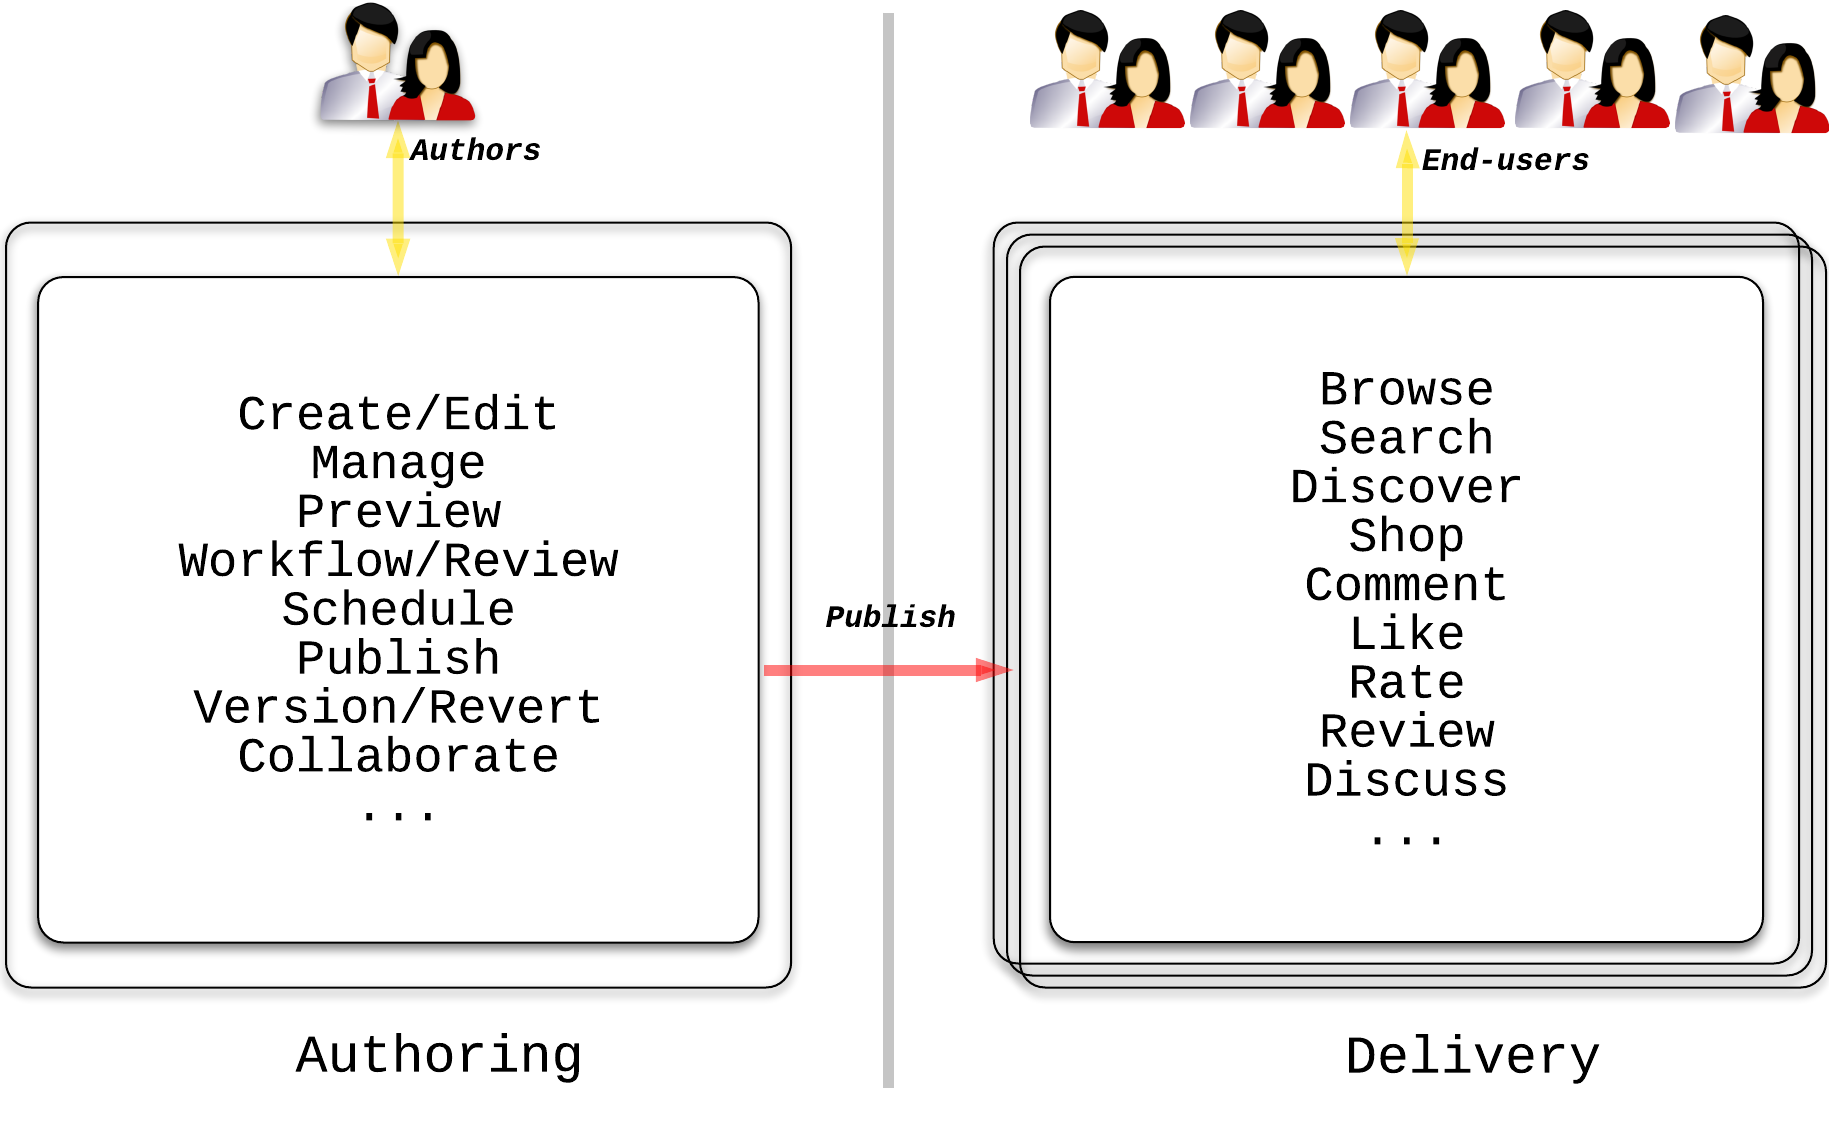
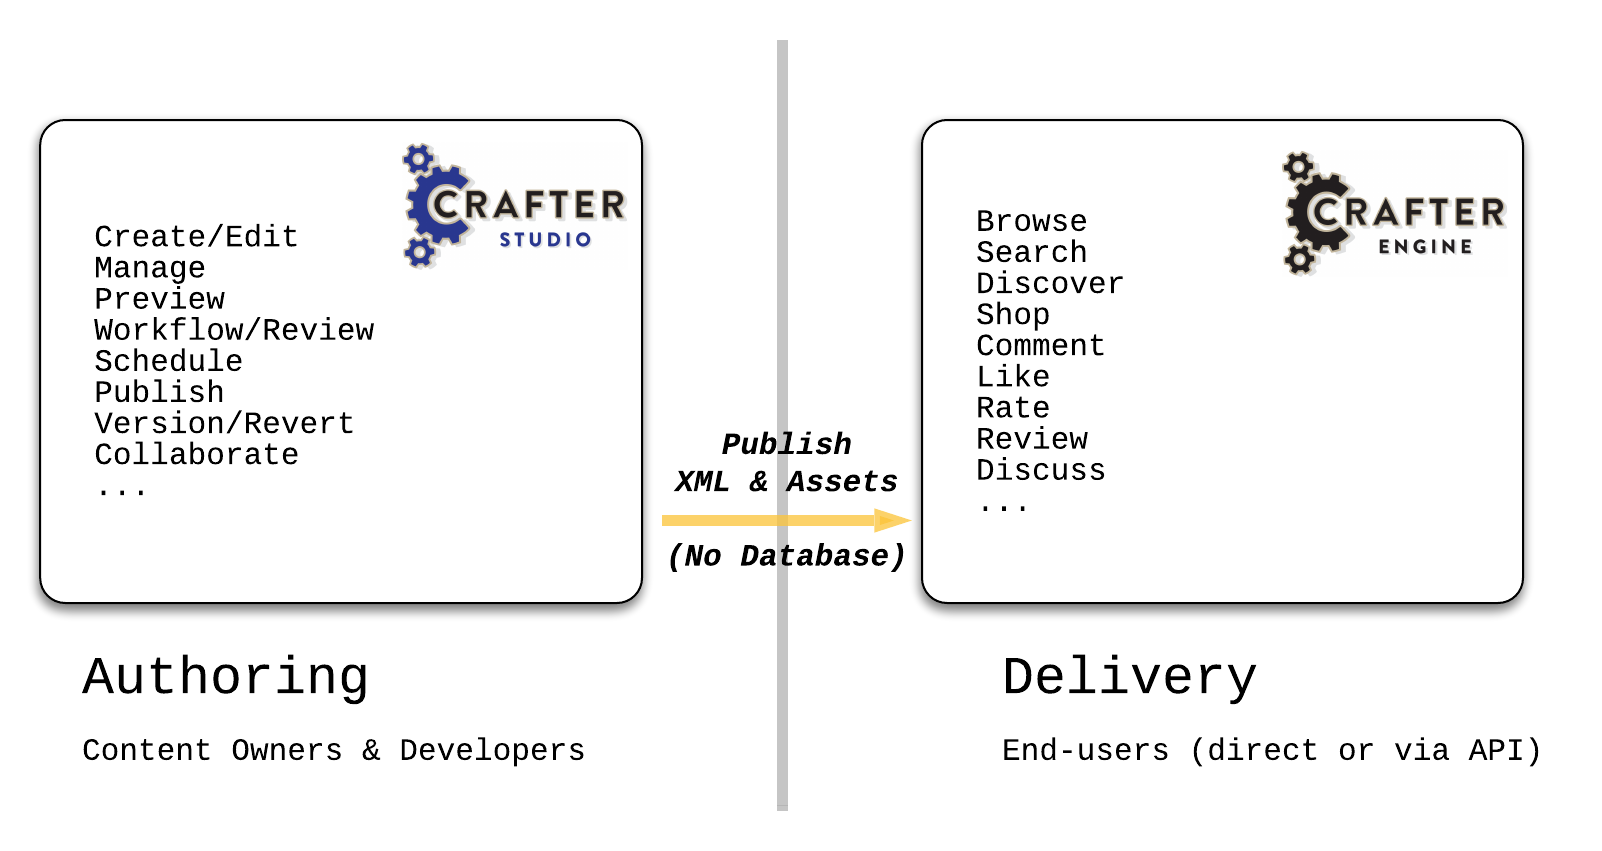
Updated the architecture document to reflect Crafter CMS v3.1.0

Changed region(s): [[0.0, 0.0, 1.0, 0.9777], [0.7179, 0.9166, 0.8739, 0.9777]]

diff --git a/source/developers/architecture.rst b/source/developers/architecture.rst
@@ -10,54 +10,89 @@ Crafter CMS distinguishes itself by its modern architecture, in turn this enable
 
 * Truly Decoupled CMS (disconnected global delivery),  composed of independent microservice-based components
 * Dynamic / personalized delivery of every request at speed
-* API first CMS (content as a service)
+* API first CMS (content as a service via GraphQL & REST)
 * Git-based CMS (allows for excellent developer cadence)
-* Share-nothing delivery architecture (extreme scale)
+* Share-nothing, serverless, delivery architecture (planet-scale)
 * Front-end agnostic (bring your favorite UI framework or use as a headless CMS)
 * Equal support for all three CMS stakeholders: content authors, developers and system administrators
+* Build new apps or weave into existing apps and sites
 
-Crafter CMS is a true decoupled content management system, yet it supports dynamic and personalized content
-delivery. To understand this better, typical decoupled content management systems have the following general
-architecture:
+Modern Decoupled Architecture
+=============================
+
+Crafter CMS is a truly decoupled content management system, yet it supports dynamic and personalized content
+delivery. To understand this better, Crafter's decoupled architecture is as follows:
 
 .. image:: /_static/images/architecture/decoupled-overview.png
         :width: 100%
         :alt: Crafter CMS Decoupled Overview
         :align: center
 
-Most decoupled content management systems compile the content into the final artifacts and push that to the delivery tier. While this allows for disconnected delivery, and extreme scalability (just add servers on the delivery tier that deliver the content, or use a CDN), this approach doesn't allow for dynamic/personalized delivery of content.
+You'll note that Crafter doesn't share a database between the authoring and delivery systems. Instead, the authoring system reduces the content to XML and static assets, and the delivery system rehydrates those for personalized, planet-scale, disconnected, and fast delivery.
 
-Many actually coupled CMSs do claim to be decoupled. These systems allow you to have an authoring tier that's separate from the delivery tier, however, these are indeed connected via a database sync. That means that the delivery tiers cannot run without some level of connectivity to the authoring master, and indeed has limits on scale of the delivery tier.
+In contrast, many coupled CMSs do claim to be decoupled. These systems allow you to have an authoring tier that's separate from the delivery tier, however, these are connected via a database sync. That means that the delivery tiers cannot run without some level of connectivity to the authoring master, and indeed has limits on scale of the delivery tier.
 
 A truly decoupled system will support disconnected delivery (think of a delivery tier that's running in a submarine or on a cruise ship). While running disconnected delivery nodes is an extreme example, it's a good test of the true scalability of the delivery tier of a CMS.
 
-Crafter CMS is truly decoupled and only assets are published from the authoring tier to the publishing tier. These assets comprise XML files and static assets (like images, CSS, Groovy code, etc.). The delivery tier ingests these artifacts and can then deliver the desired experience.
-
-How can Crafter CMS deliver a dynamic experience? During ingestion, the delivery tier indexes the content into a local search engine and builds in-memory representation of content items to help drive the dynamic behavior. The search engine and in-memory store are local and therefore share nothing with other nodes, however, you're now able to search and build dynamic responses.
-
-What about personalization and targeting? Crafter CMS has two subsystems that are backed by a NoSQL database to help with personalization and UGC (User Generated Content): Crafter Profile and Crafter Social. These collected information about the user (logged in or not), and can drive dynamic behavior, and allow the user to engage with the site (comments, ratings, etc.).
-
-Hang on, you said disconnected delivery!? Crafter Profile and Crafter Social do indeed need a database, but: 1) the CMS doesn't mandate these, you can deliver content without these capabilities, 2) the choice NoSQL helps with geo-distribution, high-scale, and some disconnection for eventual consistency.
-
-Below is a diagram showing Crafter CMS including all microservices for authoring and delivery:
-
-.. image:: /_static/images/architecture/detailed.png
+.. image:: /_static/images/architecture/traditional-modern-decoupled.png
         :width: 100%
-        :alt: Crafter CMS Architecture
+        :alt: Crafter CMS Decoupled Overview
         :align: center
 
-You'll quickly note that the authoring tier has very different SLAs, scalability, and geo-location requirements when compared to the delivery tier. It's very likely that you'll only need the authoring environment present in one data-center (per set of sites), and will have a bounded set of users and less stringent SLA. Whereas for delivery, you'll likely to need the delivery tier to be geographically distributed for faster personalized response time to end-users, unbounded users and very high SLAs.
+How can Crafter CMS deliver a dynamic experience? During ingestion, the delivery tier indexes the content into a local search engine and builds in-memory representation of content items to help drive the dynamic behavior. The search engine and in-memory store are local and therefore share nothing with other nodes, however, you're now able to search and build dynamic responses. These dynanmic responses can be driven by defined user personas along with user identity or prior user behavior. If you have a user store, behavior stream, or social media profile access, you can then tailor the content dynamically in real time. Crafter CMS has two *optional* modules that support this and can be combined/layered with other systems; Crafter Profile (user identity and behavior store), and Crafter Social (User-generated-content store).
 
-A typical deployment of Crafter CMS on Amazon AWS will have 1 region for authoring, and 3 regions for delivery that will result in sub-one-second HTML response time to end-users globally.
+Application Development
+=======================
 
-Here is a typical AWS deployment at a high-level:
+.. image:: /_static/images/architecture/application-development.png
+	:width: 100%
+	:alt: Application Development on Crafter CMS
+	:align: center
 
-.. image:: /_static/images/architecture/typical-deployment.png
+Crafter CMS is a very flexible platform, and features:
+
+* Content access via API (GraphQL / REST)
+* Modern SPAs (Single Page Applications) support, like React, Angular, Vue
+
+   * Support for in-context editing via content edit pencils, drag and drop component management, etc.
+
+* Server-side business logic developed in
+
+   * Groovy/Java if backed by Crafter Engine
+   * Any language if backed by an external service
+
+* Simple HTML5 sites
+* Mobile applications and other headless use-cases
+
+Deployment Architecture
+=======================
+
+Serverless Deployment
+^^^^^^^^^^^^^^^^^^^^^
+
+Starting with Crafter CMS 3.1, serverless delivery is supported via Docker, Kubernetes, and S3 or S3-compatible storage tier. This allows for very fast scaling up/down and a true planet-scale deployment.
+
+.. image:: /_static/images/architecture/serverless-deployment-architecture.png
         :width: 100%
         :alt: Crafter CMS Typical Real-life AWS Deployment
         :align: center
 
-The authoring cluster is typically deployed closest to the content authors, whereas delivery clusters are spread across geographies where you have end-users. If content authors are also globally distributed, authoring clusters are deployed near the authors to speed up their experience as well. Delivery nodes can pull content from an arbitrary number of authoring nodes.
+Traditional Deployment
+^^^^^^^^^^^^^^^^^^^^^^
+
+If you're not quite ready for serverless deployment, Crafter CMS deploys quite nicely in a traditional server/scale-group architecture. Here is a typical deployment at a high-level:
+
+.. image:: /_static/images/architecture/typical-deployment.png
+        :width: 100%
+        :alt: Crafter CMS Typical Real-life Deployment
+        :align: center
+
+Planet-scale
+============
+
+To support content authors and end-users across the globe, it's best to deploy Crafter CMS services close to the users. This guarantees fast, yet dynamic, responses to the users (CDNs are great, but they won't help you with dynamic/personalized responses).
+
+The authoring clusters are typically deployed closest to the content authors, whereas delivery clusters are spread across geographies where you have end-users. Delivery nodes can pull content from an arbitrary number of authoring nodes, and are typically deployed in geographies where your end-users are.
 
 .. image:: /_static/images/architecture/global-delivery.png
         :width: 100%
@@ -65,11 +100,101 @@ The authoring cluster is typically deployed closest to the content authors, wher
         :align: center
 
 
+Equality Between Stakeholders
+=============================
+Crafter CMS tries to be fair to the three primary stakeholders:
+
+* Developers
+* Operations
+* Authors
+
+It's quite hard to provide a good experience to all three stakeholders, and the CMS architecture plays a crucial role in creating the necessary balance. Consider:
+
+.. image:: /_static/images/architecture/stakeholder-fairness.png
+        :width: 100%
+        :alt: Crafter CMS Typical Real-life AWS Deployment
+        :align: center
+
+Traditional CMSs cater to content authors and web editors, and do so very well. However, developers are then forced to develop in outdated or proprietary frameworks using difficult workflows. Additionally, operations has a hard time supporting these workflows, especially when it comes to code deployments or moving production content back to lower environments.
+
+More modern headless CMSs do a much better job supporting developer's choice of development framework. Operations can be simpler with SaaS-based headless CMSs, but that means up-time is now in the hands of a third part, same for global distribution. If the headless CMS is on-premises, then potentially similar workflow problems may exist. Authors are simply underserved here as they can't manage the content in-context and are left to edit headless forms without the ability to drag-and-drop, or see the content they're editing change the site/application in real time.
+
+Crafter CMS, on the other hand, provides:
+
+* Content authors with in-context editing tools and full CMS workflow.
+* Developers get to choose their framework, and get to use their own tools.
+* Operations get to deploy the system in a modern and scalable manner (Kubernetes), and workflow is much easier thanks to being databaseless and Git-based
+
+   * Code flows forward from lower environments to production, and content flows back from production to lower environments
+
+Git-based CMS
+=============
+
+Crafter CMS is Git-based. That means that Crafter applications/sites are actually stored in Git repositories from the outset (except for large binaries that go to bucket storage), and that enables some very effective workflows. Consider:
+
+* Developers work against the Git repo that holds the site/app directly using their IDEs and tools
+* Authors work against the same Git repo using a GUI (Crafter Studio), without being aware of Git
+* Operations maintains well-known and proven foundational persistence tier, Git, and use that to flow content and code forward and back
+
+.. image:: /_static/images/architecture/git-data-flow.png
+        :width: 100%
+        :alt: Crafter CMS Typical Real-life AWS Deployment
+        :align: center
+
+
+Enterprise Content Platform
+===========================
+
+Crafter CMS can be further leveraged as an enterprise-wide content as a service provider. Thanks to being a multi-tenant CMS, any number of authors can manage content for any number of sites/applications, and Crafter can either deliver the applications, or simply provide content snippets to existing applications.
+
+.. image:: /_static/images/architecture/enterprise-content-platform.png
+        :width: 100%
+        :alt: Crafter CMS Typical Real-life AWS Deployment
+        :align: center
+
+
+Content Enable Existing Applications
+^^^^^^^^^^^^^^^^^^^^^^^^^^^^^^^^^^^^
+
+It's also not an all or nothing. Existing applications/sites can leverage Crafter to retrieve content as:
+
+* JSON
+* XML
+* HTML snippets
+* iFrame tiles
+
+The application/site can then be delivered using whatever technology, and simply use Crafter to deliver specific content tiles and assets.
+
+.. image:: /_static/images/architecture/partial-delivery.png
+        :width: 100%
+        :alt: Crafter CMS Typical Real-life AWS Deployment
+        :align: center
+
+Crafter CMS Services
+====================
+
+Crafter CMS comprises a number of services that work together to deliver the solution. At a high level:
+
++------------------+-----------------------------------------------------------------+
+|| Subsystem       || High-level Description                                         |
++------------------+-----------------------------------------------------------------+
+| Crafter Studio   | Provides the UI and workflow for content authors.               |
++------------------+-----------------------------------------------------------------+
+| Crafter Engine   | Delivers the content as HTML or API, honoring inheritance and   |
+|                  | localization.                                                   |
++------------------+-----------------------------------------------------------------+
+| Crafter Deployer | Handles shuttling the content from authoring to delivery,       |
+|                  | content indexing and other publishing related functionality.    |
++------------------+-----------------------------------------------------------------+
+| Crafter Profile  | User store and identity augmentation.                           |
++------------------+-----------------------------------------------------------------+
+| Crafter Social   | User-generated-content services.                                |
++------------------+-----------------------------------------------------------------+
+
 For more information on most of the components inside the Authoring environment and the Delivery environment, please see the following sections:
 
     * :ref:`crafter-studio`
     * :ref:`crafter-engine`
-    * :ref:`crafter-search`
     * :ref:`crafter-deployer`
     * :ref:`crafter-profile`
     * :ref:`crafter-social`
